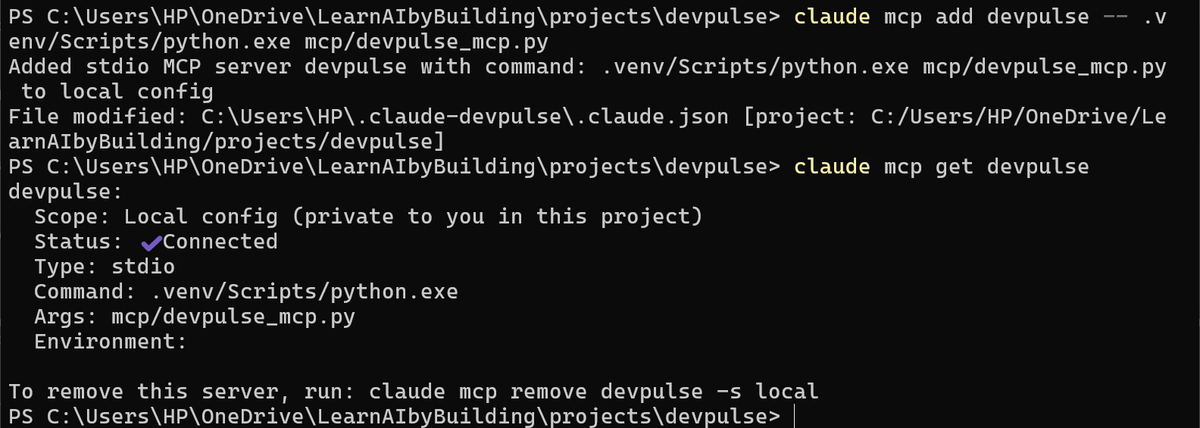
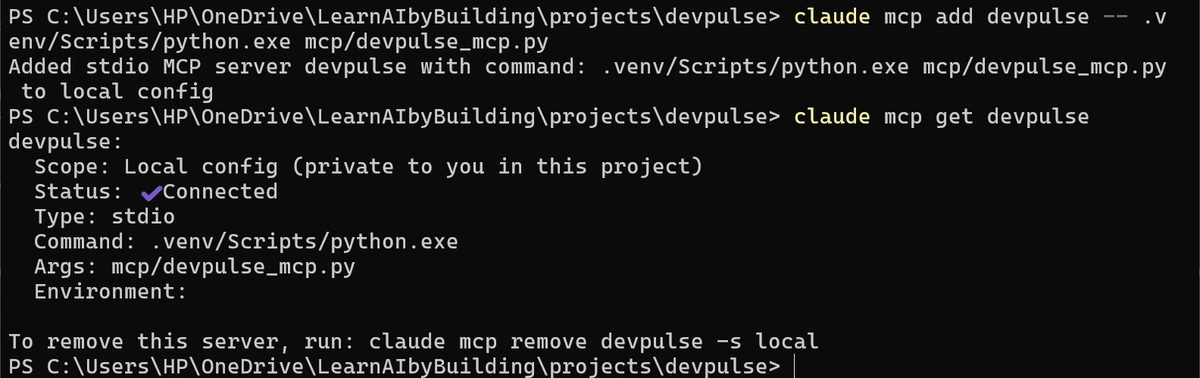
Claude Code chapter 11: episode 11 video, ATM picture, cropped config line

Changed region(s): [[0.0, 0.0, 0.9867, 0.8148], [0.0, 0.873, 0.6783, 1.0]]

diff --git a/series/claude-code/chapter11.html b/series/claude-code/chapter11.html
@@ -48,16 +48,25 @@
   </nav>
 
   <main>
+  <section id="video">
+    <div class="video"><iframe src="https://www.youtube-nocookie.com/embed/ZfpIrBns-to?rel=0" title="Episode 11 · How do I give Claude Code my own tools?"
+      allow="accelerometer; encrypted-media; gyroscope; picture-in-picture; web-share" allowfullscreen loading="lazy"></iframe></div>
+    <p class="video-cap">Prefer to watch? This chapter goes with Episode 11 (6:06). <a href="https://www.youtube.com/watch?v=ZfpIrBns-to" rel="noopener">Open it on YouTube</a>.</p>
+  </section>
+
   <section id="wall" data-rail="The wall">
     <div class="prereq">
-      <div class="pq"><b>Goes with Episode 11</b>"How do I give Claude Code my own tools?". The video is being made. This page teaches the same steps, at your own pace.</div><div class="pq"><b>In a hurry?</b><a href="#quickref">Jump to the quick reference</a>: every command and key in this chapter, what it does, and when to use it.</div><div class="pq"><b>Every prompt, ready to copy</b><a href="prompts.html#ch11">This chapter's prompts and commands</a>, each with a Copy button. Type them yourself first; copy if you are stuck or behind.</div>
+      <div class="pq"><b>Goes with Episode 11</b><a href="https://www.youtube.com/watch?v=ZfpIrBns-to" target="_blank" rel="noopener">"How do I give Claude Code my own tools?"</a>. Watch it just above, or read this page at your own pace. It teaches the same steps.</div><div class="pq"><b>In a hurry?</b><a href="#quickref">Jump to the quick reference</a>: every command and key in this chapter, what it does, and when to use it.</div><div class="pq"><b>Every prompt, ready to copy</b><a href="prompts.html#ch11">This chapter's prompts and commands</a>, each with a Copy button. Type them yourself first; copy if you are stuck or behind.</div>
       <div class="pq"><b>Where you are</b>DevPulse from chapters 1 to 10, with Playwright connected. You need Python 3 for the new server.</div>
     </div>
     <div class="prose">
       <h2>Claude still goes the long way round</h2>
       <p>You fixed a bug for 45 minutes. To log it, you open the app and fill the form. Or you ask Claude, and it edits <code>data/tasks.json</code> by hand.</p>
-      <p>In chapter 10, Playwright gave Claude a browser. Someone else built that server. Nobody has built one for DevPulse.</p>
+      <p>In chapter 10, Playwright gave Claude a browser. Someone else built that server. Nobody has built one for DevPulse, so when Claude edits the data file by hand, nothing checks what it writes.</p>
+      <p>Think of your bank. You never walk into the vault and write in the ledger yourself. You use the ATM: a few clear buttons, and it checks every request before it touches your money. DevPulse's own server will be that ATM for Claude: three tools, and each one checks what it is given.</p>
     </div>
+    <figure class="cc-shot"><img src="img/chapter11/atm.svg" alt="A hand-drawn ATM with a screen, three buttons and a card going in, in front of a closed round vault door. A note reads: 3 buttons, each one checked." loading="lazy">
+      <figcaption>A few clear buttons, each request checked. Nobody walks into the vault.</figcaption></figure>
     <div class="cc-wall">
       <div class="lbl">The question for this chapter</div>
       <p>How do you give Claude tools of your own, so it can use your app directly?</p>
@@ -83,15 +92,15 @@
     <figure class="cc-shot"><img src="img/chapter11/brief.png" alt="Installed mcp-server-dev. Plugin is now active. Then the build-mcp-server command, and Claude: the brief already settles the deployment model, language, framework and tool pattern, so I'm skipping the discovery questions." loading="lazy">
       <figcaption>The skill normally asks questions first. Our brief already answered them, so it went straight to work.</figcaption></figure>
     <div class="prose">
-      <p>It made a <code>.venv</code>, installed the SDK with <code>pip install mcp</code>, wrote the file, and tested it. Then it caught a problem on its own.</p>
+      <p>It made a <code>.venv</code>, a separate Python environment for this project, installed the MCP library (the SDK) into it with <code>pip install mcp</code>, wrote the file, and tested it against a temporary copy of the data. Then it caught a problem on its own.</p>
     </div>
     <figure class="cc-shot"><img src="img/chapter11/errors.png" alt="I've written the server and am now testing it over real stdio against a temp data file. The tools work, but validation errors come back as a generic Error executing tool, which hides the reason from the model." loading="lazy">
       <figcaption>Bad input gave a vague error. Claude needs the real reason to fix its own call, so this mattered.</figcaption></figure>
     <figure class="cc-shot"><img src="img/chapter11/summary.png" alt="Claude's summary: tests ran valid and bad input, and bad input now returns the real reason, for example minutes must be an integer from 1 to 1440; no automated tests; SDK 2.3.0 where FastMCP was renamed MCPServer; it imports server.py's rules; .venv is in .gitignore. Then the claude mcp add command it has not run. The grey suggestion: commit this." loading="lazy">
-      <figcaption>Done in 2 m 18 s. It says what it did not do: no automated tests, and the server is not registered yet. The grey <i>commit this</i> is only a suggestion.</figcaption></figure>
+      <figcaption>Done in 2 m 18 s. It says what it did not do: no automated tests, and the server is not registered yet. It also warns that SDK 2.3.0 renamed FastMCP to MCPServer, so an older guide may not match. The grey <i>commit this</i> is only a suggestion.</figcaption></figure>
     <div class="confuse">
       <div class="lbl">Careful here</div>
-      <p>A stdio server talks to Claude through stdout. One stray <code>print()</code> in the server breaks the messages. Our server has none. Log to stderr instead.</p>
+      <p>A program normally prints its text to <b>stdout</b>, standard output. A stdio server uses that same channel to send its messages to Claude, in a strict format. So a stray <code>print()</code>, even a quick debug line, lands in the middle of those messages, and Claude can no longer read them. The server Claude wrote prints nothing. If your server needs to write notes while it runs, send them to <b>stderr</b>, standard error, a second channel kept apart from the messages.</p>
     </div>
     <div class="prose">
       <p>Commit it with <code>/commit-commands:commit</code>.</p>
@@ -111,6 +120,9 @@ claude mcp get devpulse</div>
 claude mcp get devpulse</div>
     <figure class="cc-shot"><img src="img/chapter11/register.png" alt="Added stdio MCP server devpulse to local config. claude mcp get devpulse: Scope Local config, Status Connected, Type stdio, Command .venv/Scripts/python.exe, Args mcp/devpulse_mcp.py." loading="lazy">
       <figcaption>Local scope, stdio, Connected. Your own server, next to Playwright.</figcaption></figure>
+    <div class="prose">
+      <p>Notice the two scopes. The plugin went in at user scope, so it is yours in every project. This server is local: it lives in this project only.</p>
+    </div>
   </section>
 
   <section id="use" data-rail="Just ask">
@@ -135,7 +147,7 @@ claude mcp get devpulse</div>
     <div class="prose">
       <h2>What your own tools cost</h2>
       <p>Each tool's name and description go into Claude's context, like any server's. Three small tools cost little. Keep them few and clearly named.</p>
-      <p>Claude now uses your app. Can it also hunt for bugs in many files at once? That is chapter 12.</p>
+      <p>So far, Claude has done one job at a time. In chapter 12, we hand it a bigger job, a bug check of four files at once, and let it split the work. Claude Code calls this a workflow.</p>
     </div>
   </section>
 
@@ -156,7 +168,7 @@ claude mcp get devpulse</div>
   </section>
 
   <section class="lwa-refs" id="refs"><div class="prose"><h2>References</h2><p>Where each command on this page comes from. Every screenshot is from our own recording on 29 Oct 2026, Claude Code 2.1.312.</p></div><ol><li><b>Anthropic</b> · <i>Discover and install plugins</i> <span class="why">/plugin, the official marketplace, and installing for you, a repo or this repo only.</span> <a href="https://code.claude.com/docs/en/discover-plugins" rel="noopener">https://code.claude.com/docs/en/discover-plugins</a></li><li><b>Anthropic</b> · <i>Connect Claude Code to tools via MCP</i> <span class="why">claude mcp add for a local stdio server, claude mcp get, and the scopes.</span> <a href="https://code.claude.com/docs/en/mcp" rel="noopener">https://code.claude.com/docs/en/mcp</a></li><li><b>Model Context Protocol</b> · <i>MCP Python SDK</i> <span class="why">The open-source package our server is built on (pip install mcp).</span> <a href="https://github.com/modelcontextprotocol/python-sdk" rel="noopener">https://github.com/modelcontextprotocol/python-sdk</a></li><li><b>Model Context Protocol</b> · <i>Build an MCP server</i> <span class="why">Why a stdio server must never print to stdout: that channel carries the messages.</span> <a href="https://modelcontextprotocol.io/docs/develop/build-server" rel="noopener">https://modelcontextprotocol.io/docs/develop/build-server</a></li><li><b>My own recording</b> · <i>29 Oct 2026, Windows 11</i> <span class="why">The server was written and tested in 2 m 18 s; the SDK installed was 2.3.0; Claude called devpulse for both questions.</span></li></ol></section>
-  <section class="keep" aria-label="Follow along"><p class="follow">New chapters and episodes come out every week. Follow along on <a href="https://www.youtube.com/@learn-ai-by-building" rel="noopener">YouTube</a> or the <a href="https://whatsapp.com/channel/0029VbBmUYHADTOID6uURl2U" rel="noopener">WhatsApp channel</a>.</p></section>
+  <section class="keep" aria-label="Follow along"><p class="follow">New chapters and episodes come out every week. Follow along on <a href="https://www.youtube.com/@learn-ai-by-building" rel="noopener">YouTube</a> or the <a href="https://whatsapp.com/channel/0029VbBmUYHADTOID6uURl2U" rel="noopener">WhatsApp channel</a>. Questions? Ask under the video on YouTube; I read every comment.</p></section>
   <div class="lwa-chapnav"><a href="chapter10.html"><span class="k">← Previous</span><span class="t">Chapter 10 · Claude sees the app</span></a><button type="button" class="lwa-complete" data-lwa-complete><span class="k">Progress</span><span class="t">Mark this chapter complete</span></button><a href="chapter12.html"><span class="k">Next →</span><span class="t">Chapter 12 · A bug scan in parallel</span></a></div>
   </main>
 </div>

diff --git a/series/claude-code/index.html b/series/claude-code/index.html
@@ -80,7 +80,7 @@
       <div class="p-card"><div class="ph"><span class="pn">Chapter 10</span><span class="pt"><a href="chapter10.html">Claude sees the app</a></span></div>
         <p class="pd">MCP: Playwright lets Claude see the page at phone width; server scopes. <a href="https://www.youtube.com/watch?v=M-q4KZSGB_w" rel="noopener">Watch Episode 10 (5:41)</a></p></div>
       <div class="p-card"><div class="ph"><span class="pn">Chapter 11</span><span class="pt"><a href="chapter11.html">DevPulse tools for Claude</a></span></div>
-        <p class="pd">A plugin builds a DevPulse MCP server, so Claude logs and sums tasks directly.</p></div>
+        <p class="pd">A plugin builds a DevPulse MCP server, so Claude logs and sums tasks directly. <a href="https://www.youtube.com/watch?v=ZfpIrBns-to" rel="noopener">Watch Episode 11 (6:06)</a></p></div>
       <div class="p-card"><div class="ph"><span class="pn">Chapter 12</span><span class="pt"><a href="chapter12.html">A bug scan in parallel</a></span></div>
         <p class="pd">A dynamic workflow: four reviewers at once, one ranked list, and what it costs.</p></div>
       <div class="p-card"><div class="ph"><span class="pn">Chapter 13</span><span class="pt"><a href="chapter13.html">Hooks that watch for us</a></span></div>
